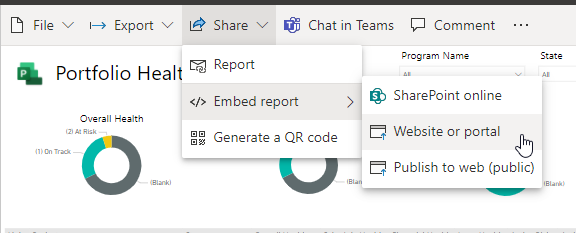
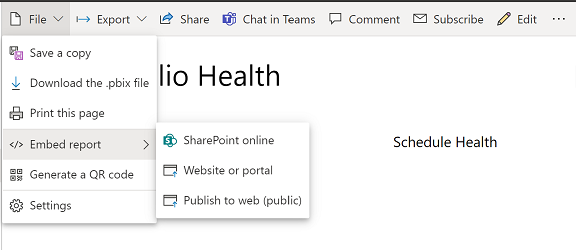
Updated readme with new Embed details

diff --git a/README.md b/README.md
@@ -89,7 +89,7 @@ When you deploy the report, ensure that your team will have access to it. [Learn
 The Accelerator already contains a placeholder for the Power BI template. Once you've deployed the Accelerator and the Power BI template, follow these steps to have the Power BI report appear in the Accelerator.
 
 1. Once you've deployed the Power BI template, open the report in [PowerBI.com](https://www.powerbi.com).
-2. Press the _Share_ button in the top navigation bar, open the _Embed report_ menu item, and then choose the _Website or portal_ option.
+2. Press the _File_ button in the top navigation bar, open the _Embed report_ menu item, and then choose the _Website or portal_ option.
 
 ![The website or portal menu option under the share button](images/share-powerbi-report.png)
 
